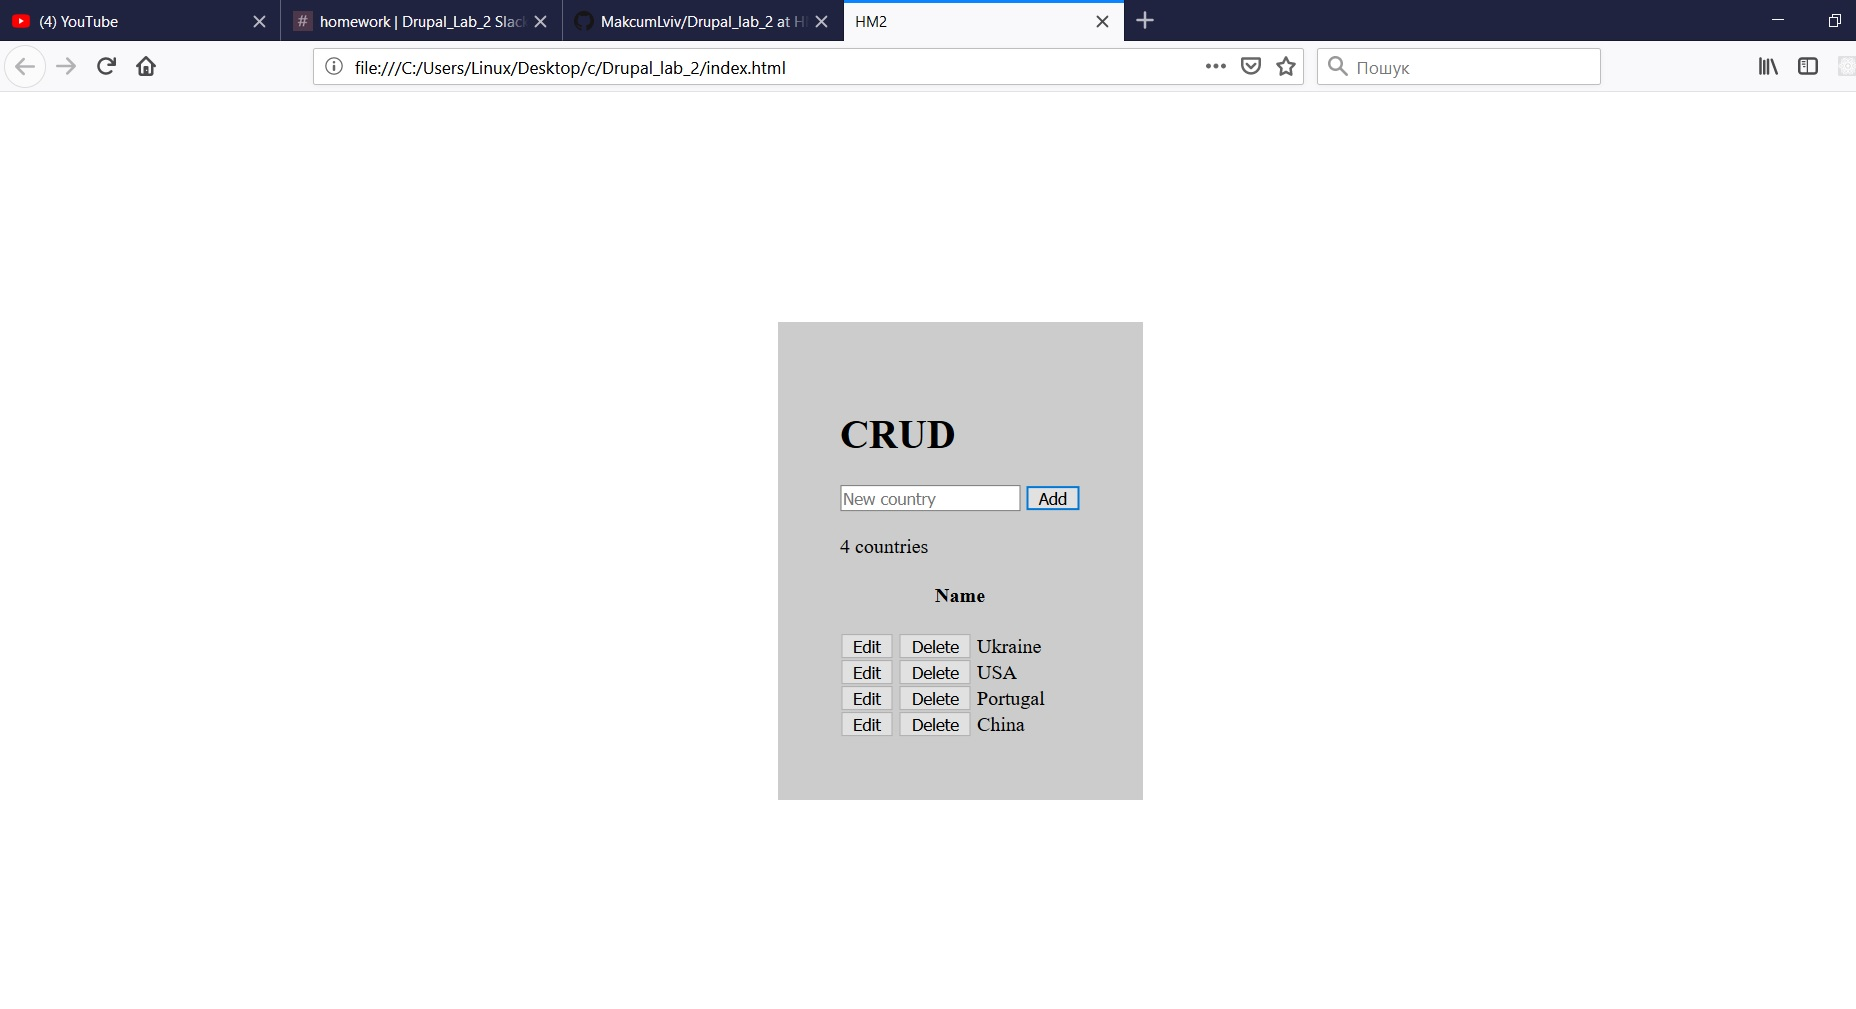
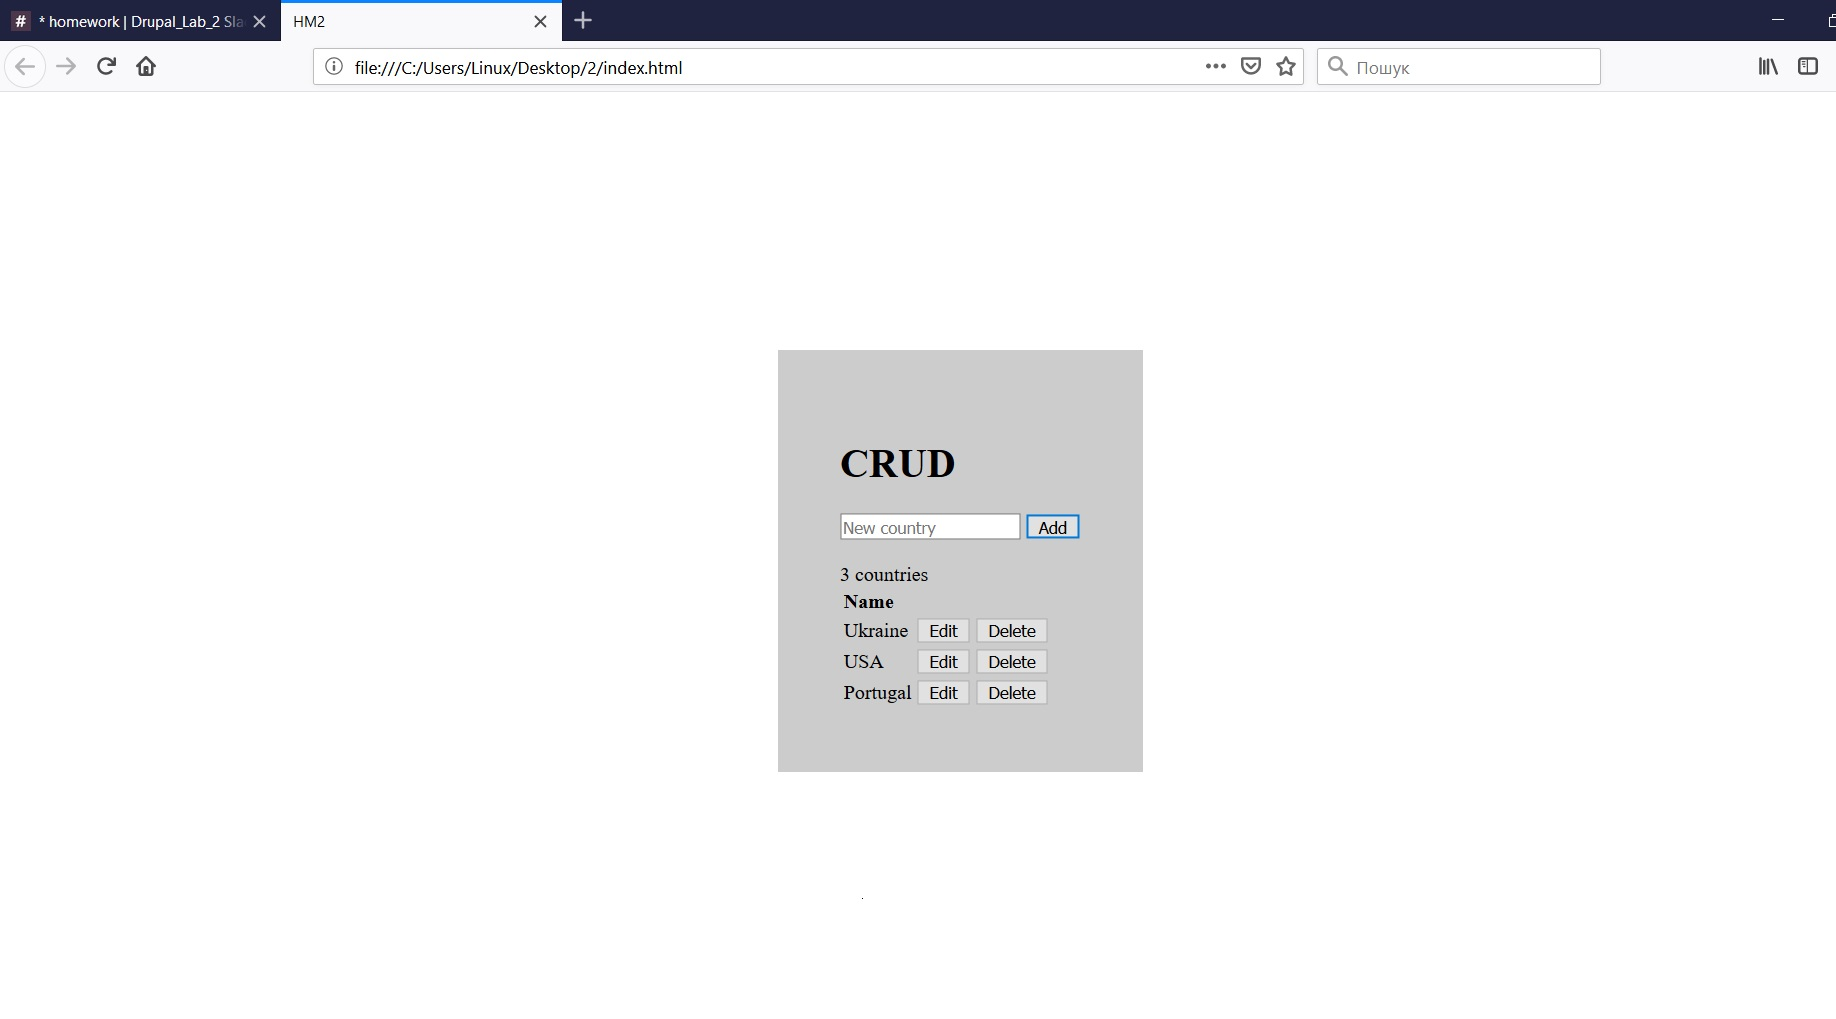
small changes

diff --git a/js/script.js b/js/script.js
@@ -3,7 +3,11 @@ const COUNTRIES = [];
 
 document.getElementById('form').addEventListener('submit', (e) => {
     let name = document.getElementById("name").value;
-    createСountry(name);
+    if (name == '') {
+        alert("No Data");
+    } else {
+        createСountry(name);
+    }
     e.preventDefault();
 });
 
@@ -13,57 +17,42 @@ function quantityCountries() {
     count.innerHTML = message;
 }
 
-function createСountry(name) {
-    let сountry = { name }
-    COUNTRIES.push(сountry);
-    readСountry();
-    quantityCountries();
-    document.getElementById('form').reset();
-    console.log(COUNTRIES);
-}
-
 function readСountry() {
-    let сountryhtml = document.getElementById('сountry');
+    let сountryhtml = document.getElementById('countries');
     сountryhtml.innerHTML = "";
     for (let i = 0; i < COUNTRIES.length; i++) {
         сountryhtml.innerHTML += `
-		<div class="black">
-
-		<button class="edit" onClick="editCountry('${i}')"> Edit </button>
-		<button class="remove" onClick="remove('${i}')"> Delete </button>
-		<span> ${COUNTRIES[i].name} </span>
-		</div> `
+        <tr class="black">
+        <td> ${COUNTRIES[i].name}  </td>
+        <td><button class="edit" onClick="editCountry('${i}')"> Edit </button></td>
+        <td><button class="remove" onClick="remove('${i}')"> Delete </button></td>
+        </tr> `
     }
 }
 
-function remove(i) {
-    COUNTRIES.splice(i, 1);
-    readСountry();
-    quantityCountries();
-
-}
 
 function editCountry(index) {
-    let сountryhtml = document.getElementById('сountry');
+    let сountryhtml = document.getElementById('countries');
     сountryhtml.innerHTML = "";
     for (let i = 0; i < COUNTRIES.length; i++) {
         if (i == index) {
-            сountryhtml.innerHTML += ` <div class="red">
-			<input id="input2name" placeholder="${COUNTRIES[i].name}"> 
-			<button class="edit" onClick="updateCountry('${i}')">Update</button>
-			<button class="remove" onClick="readСountry()">Cancel</button>
-			</div>  `
+            сountryhtml.innerHTML += `
+            <tr class="red">
+            <td><input id="input2name" type="text" placeholder="${COUNTRIES[i].name}"> </td>
+            <td><button class="edit" onClick="updateCountry('${i}')">Update</button></td>
+            <td><button class="remove" onClick="readСountry()">Cancel</button></td>
+            </tr> `
         } else {
-            сountryhtml.innerHTML += ` <div class="black">
-			<span> ${COUNTRIES[i].name} </span>
-			<button disabled class="edit" onClick="editCountry('${i}')">Edit</button>
-			<button disabled class="remove" onClick="remove('${i}')">Delete</button>
-
-			</div>  `
-
+            сountryhtml.innerHTML += `
+            <tr class="black">
+            <td> ${COUNTRIES[i].name} </td>
+            <td><button disabled class="edit" onClick="editCountry('${i}')"> Edit </button></td>
+            <td><button disabled class="remove" onClick="remove('${i}')"> Delete </button></td>
+            </tr>  `
         }
     }
 }
+
 
 function updateCountry(index) {
     let updatename = document.getElementById('input2name').value;
@@ -73,4 +62,18 @@ function updateCountry(index) {
         COUNTRIES[index].name = updatename;
         readСountry();
     }
+}
+
+function remove(i) {
+    COUNTRIES.splice(i, 1);
+    readСountry();
+    quantityCountries();
+}
+
+function createСountry(name) {
+    let сountry = { name }
+    COUNTRIES.push(сountry);
+    readСountry();
+    quantityCountries();
+    document.getElementById('form').reset();
 }

diff --git a/index.html b/index.html
@@ -12,14 +12,18 @@
         <div class="center">
             <h1>CRUD</h1>
             <form id="form">
-                <input type="text" name="name" id="name" placeholder="New country">
+                <input type="text" pattern="^[a-zA-Z]+$" name="name" id="name" placeholder="New country">
                 <button type="submit" id="button">Add</button>
             </form>
             <br>
             <div id="count"></div>
-            <h4>Name</h4>
-            <div id="сountry">
-            </div>
+            <table>
+                <tr>
+                    <th>Name</th>
+                </tr>
+                <tbody id="countries">
+                </tbody>
+            </table>
         </div>
     </div>
     <script type="text/javascript" src="js/script.js"></script>

diff --git a/css/style.css b/css/style.css
@@ -3,11 +3,8 @@
     margin: 0 auto;
 }
 
-h4 {
-    text-align: center;
-}
 
-span {
+td {
     text-transform: capitalize;
 }
 
